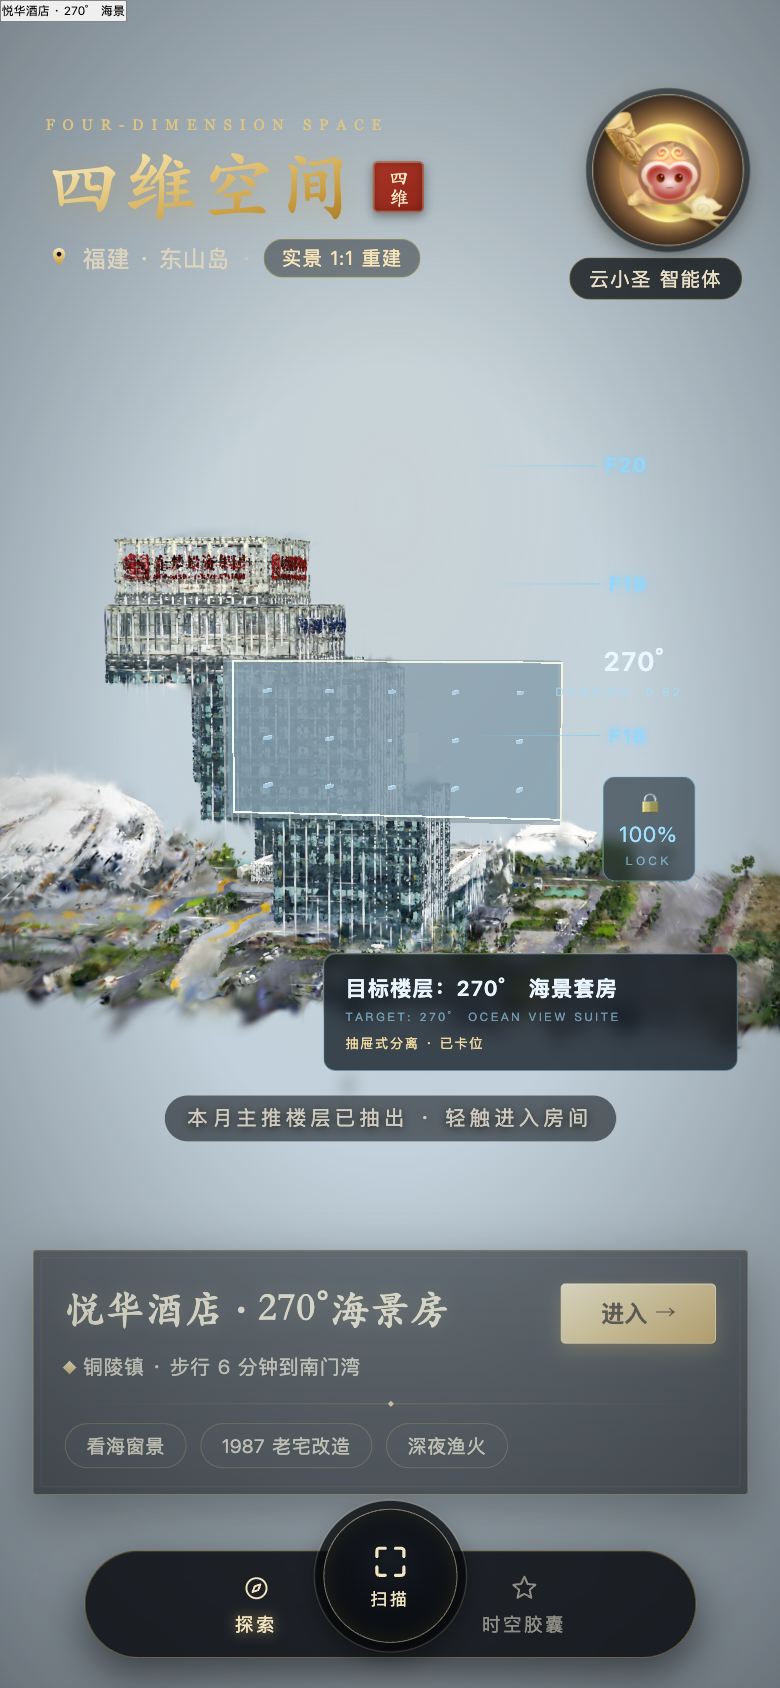
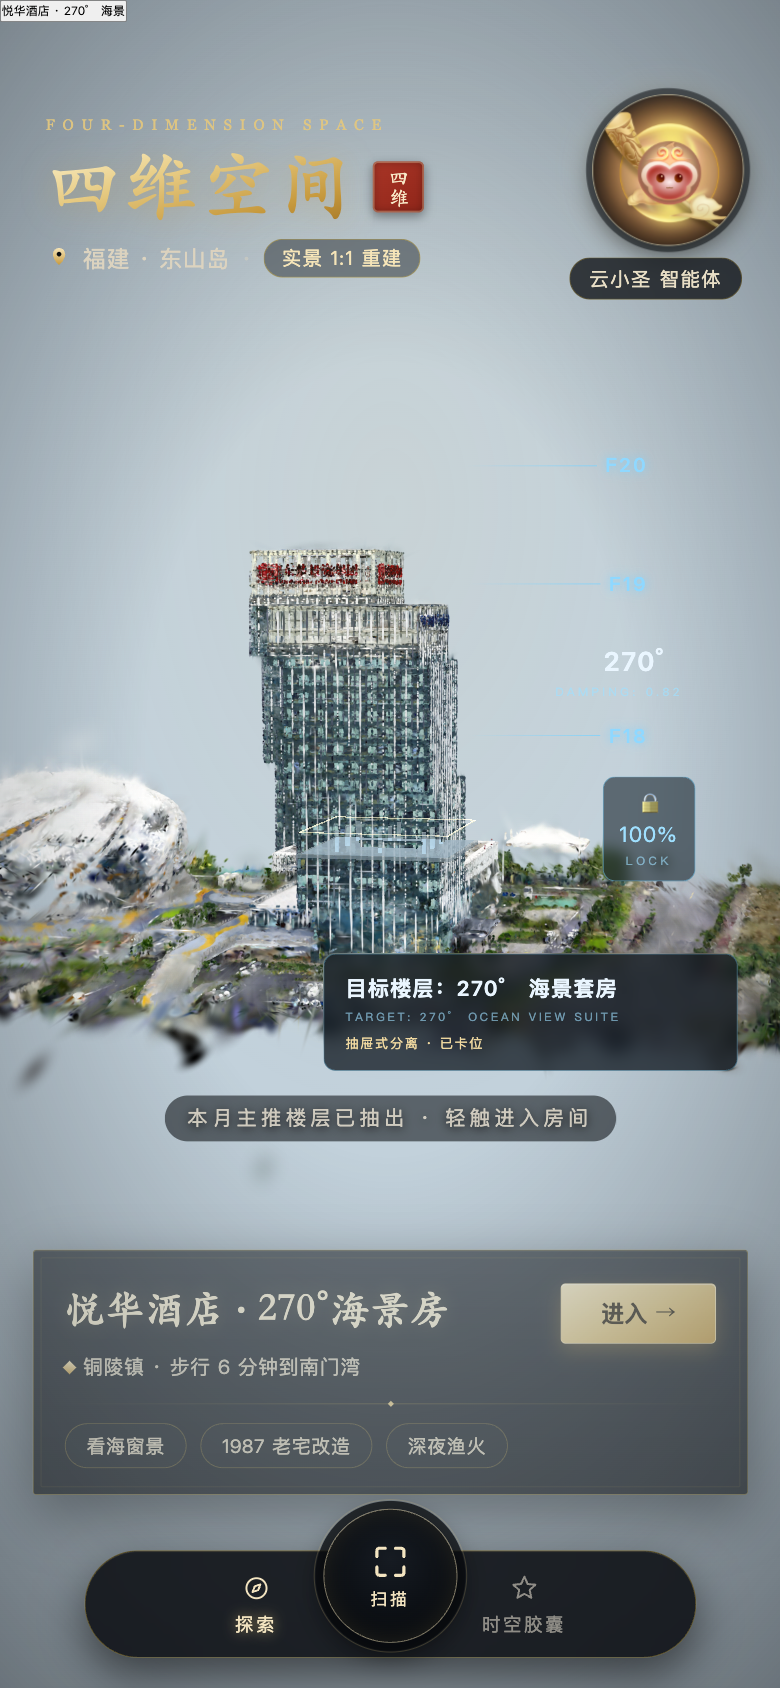
fix: 楼板模型朝向（MeshBuilder 本身是 Y-up，不能再转 -90°）+ 目标层缩到一层楼板 40×40m

Changed region(s): [[0.0, 0.3081, 1.0, 0.6469]]

diff --git a/src/engine/pc/PcEngine.ts b/src/engine/pc/PcEngine.ts
@@ -238,7 +238,7 @@ export class PcEngine {
 
   private buildRoomMesh() {
     const b = new MeshBuilder();
-    const W = 46, D = 21, H = 6;
+    const W = 20, D = 20, H = 6;   // 一层楼板：40 × 40 × 6m
     b.box([-W - 1, -0.9, -D - 1], [W + 1, 0, D + 1], [40, 38, 34]);
     b.box([-W, 0, -D], [W, 0.08, D], [26, 24, 21]);
     const trim: [number, number, number][] = [
@@ -252,11 +252,9 @@ export class PcEngine {
     b.box([-W - 0.5, H - 0.24, D], [W + 0.5, H, D + 0.5], [214, 178, 106]);
     b.box([-W - 0.5, H - 0.24, -D], [-W, H, D], [214, 178, 106]);
     b.box([W, H - 0.24, -D], [W + 0.5, H, D], [214, 178, 106]);
-    for (let i = -2; i <= 2; i++) {
+    for (let i = -1; i <= 1; i++) {
       for (let j = -1; j <= 1; j++) {
-        const px = i * (W / 2.6);
-        const pz = j * (D / 1.6);
-        b.box([px - 0.5, 0, pz - 0.5], [px + 0.5, H - 0.24, pz + 0.5], [58, 56, 52]);
+        b.box([i * 12 - 0.5, 0, j * 12 - 0.5], [i * 12 + 0.5, H - 0.24, j * 12 + 0.5], [58, 56, 52]);
       }
     }
 
@@ -328,7 +326,8 @@ export class PcEngine {
     const miInner = new pc.MeshInstance(innerMesh, innerMat);
     miInner.castShadow = false;
     e.render!.meshInstances = [miInner, mi, miEdge];
-    e.setEulerAngles(-90, 0, 0);
+    // 注意：MeshBuilder 的几何本身就是 Y-up（薄的方向是 Y），
+    // 这里绝对不能再绕 X 转 -90°，否则楼板会立起来。
     e.enabled = false;
     this.app.root.addChild(e);
     this.roomEntity = e;

diff --git a/src/pc/boot.ts b/src/pc/boot.ts
@@ -116,7 +116,7 @@ export async function bootPc() {
     // ② 空间折叠：千层糕展开（1.1s 起，1.6s）
     window.setTimeout(() => {
       engine.controls.autoRotate = false;
-      engine.openUnfold(74, 1900, 3);
+      engine.openUnfold(16, 1900, 3);
       sfx.whoosh(0.8);
       engine.playTimeline(
         [
@@ -131,7 +131,7 @@ export async function bootPc() {
       // 目标层（第 3 层）展开后在 midY + 37m 的位置：盒子就在原地，只沿视线方向轻推出来
       const yaw = engine.camera.yaw;
       const dir: [number, number, number] = [Math.sin(yaw) * 0.55, 0.12, Math.cos(yaw) * 0.55];
-      engine.showRoom([cx, midY + 37, cz], dir, 26, 1400, 'outBack');
+      engine.showRoom([cx, midY + 8, cz], dir, 20, 1400, 'outBack');
       sfx.latch();
       haptic(16);
     }, 2700);
